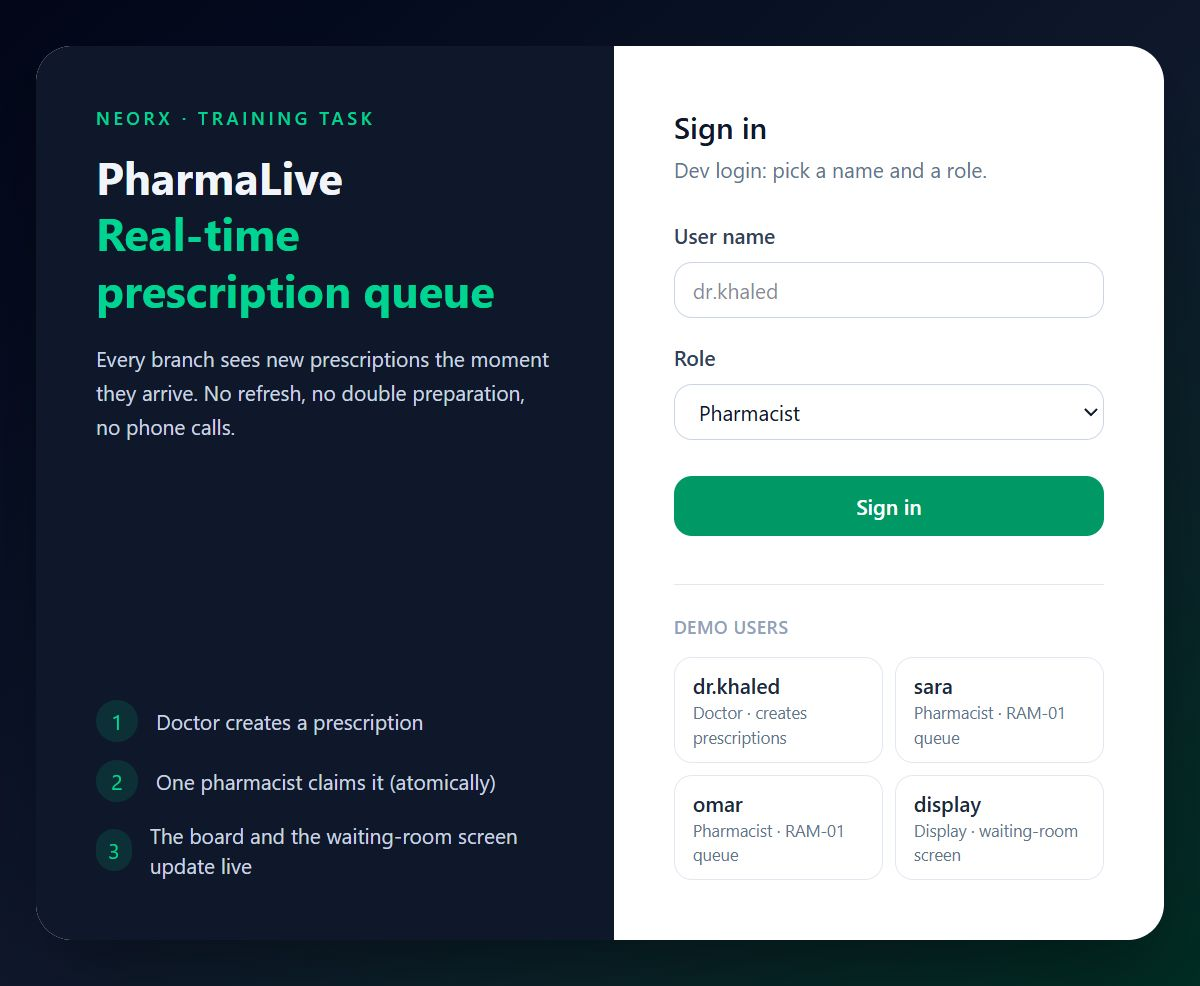
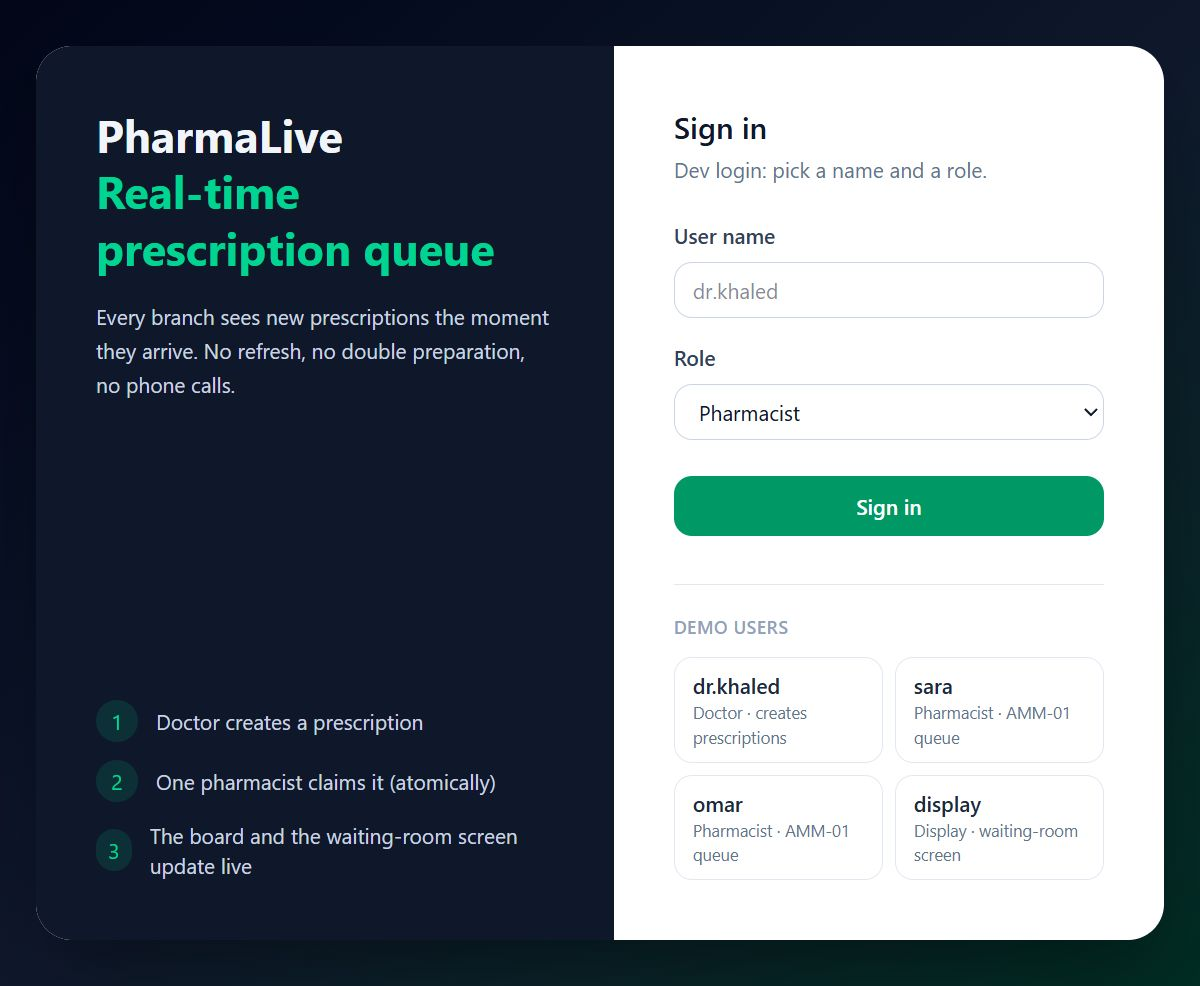
chore: switch to Jordanian city branches, remove Neorx branding, new login screenshot

Changed region(s): [[0.0617, 0.0913, 0.4625, 0.4564], [0.8325, 0.6998, 0.8942, 0.7302], [0.6475, 0.8215, 0.7092, 0.8519]]

diff --git a/client/src/app/pages/login/login.html b/client/src/app/pages/login/login.html
@@ -7,10 +7,7 @@
     <!-- Brand panel -->
     <aside class="hidden flex-col justify-between gap-10 bg-slate-900 p-10 text-slate-100 md:flex">
       <div>
-        <p class="text-xs font-semibold uppercase tracking-[0.2em] text-emerald-400">
-          Neorx · Training task
-        </p>
-        <h1 class="mt-3 text-3xl font-bold leading-tight">
+        <h1 class="text-3xl font-bold leading-tight">
           PharmaLive
           <span class="block text-emerald-400">Real-time prescription queue</span>
         </h1>

diff --git a/client/src/app/pages/login/login.ts b/client/src/app/pages/login/login.ts
@@ -28,8 +28,8 @@ export class Login {
 
   protected readonly demoUsers: DemoUser[] = [
     { userName: 'dr.khaled', role: 'Doctor', hint: 'creates prescriptions' },
-    { userName: 'sara', role: 'Pharmacist', hint: 'RAM-01 queue' },
-    { userName: 'omar', role: 'Pharmacist', hint: 'RAM-01 queue' },
+    { userName: 'sara', role: 'Pharmacist', hint: 'AMM-01 queue' },
+    { userName: 'omar', role: 'Pharmacist', hint: 'AMM-01 queue' },
     { userName: 'display', role: 'Display', hint: 'waiting-room screen' },
   ];
 

diff --git a/client/src/app/pages/pharmacist/pharmacist.ts b/client/src/app/pages/pharmacist/pharmacist.ts
@@ -38,7 +38,7 @@ export class PharmacistBoard {
   protected readonly branches = toSignal(this.http.branches(), {
     initialValue: [] as Branch[],
   });
-  protected readonly branchId = signal('RAM-01');
+  protected readonly branchId = signal('AMM-01');
   protected readonly branchName = computed(
     () => this.branches().find((branch) => branch.id === this.branchId())?.name ?? this.branchId(),
   );

diff --git a/client/src/app/pages/doctor/doctor.ts b/client/src/app/pages/doctor/doctor.ts
@@ -35,7 +35,7 @@ export class Doctor {
 
   protected readonly form = this.fb.nonNullable.group({
     number: ['', [Validators.required]],
-    branchId: ['RAM-01', [Validators.required]],
+    branchId: ['AMM-01', [Validators.required]],
     patientInitials: ['', [Validators.required]],
     items: this.fb.nonNullable.array([this.fb.nonNullable.control('', [Validators.required])]),
   });

diff --git a/server/PharmaLive.Api.Tests/PharmacyHubTests.cs b/server/PharmaLive.Api.Tests/PharmacyHubTests.cs
@@ -39,35 +39,35 @@ public sealed class PharmacyHubTests
 
         var doctorToken = await TestApi.LoginAsync(http, "dr.khaled", "Doctor");
 
-        await using var ramallah = await TestApi.ConnectAsync(factory, await TestApi.LoginAsync(http, "sara", "Pharmacist"));
-        await using var nablus = await TestApi.ConnectAsync(factory, await TestApi.LoginAsync(http, "omar", "Pharmacist"));
+        await using var amman = await TestApi.ConnectAsync(factory, await TestApi.LoginAsync(http, "sara", "Pharmacist"));
+        await using var irbid = await TestApi.ConnectAsync(factory, await TestApi.LoginAsync(http, "omar", "Pharmacist"));
 
-        var ramallahReceived = new TaskCompletionSource<PrescriptionDto>(TaskCreationOptions.RunContinuationsAsynchronously);
-        var nablusReceived = new TaskCompletionSource<PrescriptionDto>(TaskCreationOptions.RunContinuationsAsynchronously);
+        var ammanReceived = new TaskCompletionSource<PrescriptionDto>(TaskCreationOptions.RunContinuationsAsynchronously);
+        var irbidReceived = new TaskCompletionSource<PrescriptionDto>(TaskCreationOptions.RunContinuationsAsynchronously);
 
-        ramallah.On<PrescriptionDto>("PrescriptionCreated", dto =>
+        amman.On<PrescriptionDto>("PrescriptionCreated", dto =>
         {
-            ramallahReceived.TrySetResult(dto);
+            ammanReceived.TrySetResult(dto);
             return Task.CompletedTask;
         });
-        nablus.On<PrescriptionDto>("PrescriptionCreated", dto =>
+        irbid.On<PrescriptionDto>("PrescriptionCreated", dto =>
         {
-            nablusReceived.TrySetResult(dto);
+            irbidReceived.TrySetResult(dto);
             return Task.CompletedTask;
         });
 
-        await ramallah.InvokeAsync("JoinBranch", "RAM-01");
-        await nablus.InvokeAsync("JoinBranch", "NAB-01");
+        await amman.InvokeAsync("JoinBranch", "AMM-01");
+        await irbid.InvokeAsync("JoinBranch", "IRB-01");
 
-        var created = await TestApi.CreatePrescriptionAsync(http, doctorToken, "RX-9002", "RAM-01");
+        var created = await TestApi.CreatePrescriptionAsync(http, doctorToken, "RX-9002", "AMM-01");
 
-        var received = await ramallahReceived.Task.WaitAsync(TimeSpan.FromSeconds(10));
+        var received = await ammanReceived.Task.WaitAsync(TimeSpan.FromSeconds(10));
         Assert.Equal(created.Id, received.Id);
-        Assert.Equal("RAM-01", received.BranchId);
+        Assert.Equal("AMM-01", received.BranchId);
 
-        // Give Nablus a moment: it must never see a Ramallah prescription.
+        // Give Irbid a moment: it must never see an Amman prescription.
         await Task.Delay(500);
-        Assert.False(nablusReceived.Task.IsCompleted);
+        Assert.False(irbidReceived.Task.IsCompleted);
     }
 
     [Fact]
@@ -99,7 +99,7 @@ public sealed class PharmacyHubTests
             sara.InvokeAsync("JoinBranch", "XYZ-99"));
 
         Assert.Contains("Branch 'XYZ-99' does not exist.", error.Message);
-        Assert.Contains("RAM-01", error.Message);
+        Assert.Contains("AMM-01", error.Message);
     }
 
     private static async Task<ClaimAttempt> TryClaimAsync(HubConnection connection, string prescriptionId)

diff --git a/server/PharmaLive.Api/Program.cs b/server/PharmaLive.Api/Program.cs
@@ -87,11 +87,11 @@ app.UseCors("client");
 app.UseAuthentication();
 app.UseAuthorization();
 
-app.MapGet("/", () => Results.Ok(new
+app.MapGet("/", (BranchCatalog branches) => Results.Ok(new
 {
     service = "PharmaLive.Api",
     hub = "/hubs/pharmacy",
-    branches = new[] { "RAM-01", "NAB-01", "HEB-01" },
+    branches = branches.All.Select(branch => branch.Id),
 }));
 
 app.MapAuthEndpoints();

diff --git a/server/PharmaLive.Api/Services/BranchCatalog.cs b/server/PharmaLive.Api/Services/BranchCatalog.cs
@@ -7,9 +7,9 @@ public sealed class BranchCatalog
 {
     private static readonly BranchDto[] Branches =
     [
-        new("RAM-01", "Ramallah"),
-        new("NAB-01", "Nablus"),
-        new("HEB-01", "Hebron"),
+        new("AMM-01", "Amman"),
+        new("IRB-01", "Irbid"),
+        new("ZAR-01", "Zarqa"),
     ];
 
     private readonly Dictionary<string, BranchDto> _byId =

diff --git a/server/PharmaLive.Api.Tests/PharmaLiveFactory.cs b/server/PharmaLive.Api.Tests/PharmaLiveFactory.cs
@@ -30,7 +30,7 @@ internal static class TestApi
         HttpClient http,
         string accessToken,
         string number,
-        string branchId = "RAM-01")
+        string branchId = "AMM-01")
     {
         using var request = new HttpRequestMessage(HttpMethod.Post, "/api/prescriptions")
         {

diff --git a/README.md b/README.md
@@ -61,7 +61,8 @@ changes.
 | `omar` | Pharmacist | `/pharmacist` |
 | `display` | Display | `/display` |
 
-Branches: `RAM-01` Ramallah, `NAB-01` Nablus, `HEB-01` Hebron.
+Branches: `AMM-01` Amman, `IRB-01` Irbid, `ZAR-01` Zarqa. The board and the doctor form
+default to `AMM-01`.
 
 **Tests**
 
@@ -140,7 +141,7 @@ uses `WebApplicationFactory<Program>` and the real **.NET SignalR client**:
 - asserts exactly one success, one `HubException`, and that the loser's message contains the
   prescription number, "already claimed by" and the winner's name.
 
-The suite also proves branch isolation (a NAB-01 subscriber never receives a RAM-01 event), the
+The suite also proves branch isolation (an IRB-01 subscriber never receives an AMM-01 event), the
 readable invalid-transition error, and the unknown-branch error — 4 tests, all green.
 
 ---
@@ -170,7 +171,7 @@ browser history, `Referer` headers, crash dumps, and screenshots. Mitigations us
 ### 2. Why rejoin groups after a reconnect? When does stateful reconnect help?
 
 SignalR groups are keyed by **connection id** on the server:
-`Groups.AddToGroupAsync(Context.ConnectionId, "branch:RAM-01")`. A reconnect that produces a new
+`Groups.AddToGroupAsync(Context.ConnectionId, "branch:AMM-01")`. A reconnect that produces a new
 connection id creates a connection with no groups, so branch broadcasts stop arriving. The client
 therefore keeps the set of joined branches and, on `reconnected$`, invokes `JoinBranch` again
 (`PharmacyHubService.rejoinAll`). It also refetches the queue over HTTP, because events emitted while
@@ -257,25 +258,6 @@ explicit synchronization.
     origins (and `AllowCredentials` stays required for SignalR).
 11. **Observability** — add the instance id to logs/metrics so "which node handled it?" is answerable;
     the current hub filter logs user and duration but not the instance.
-
----
-
-## Five-minute demo script
-
-1. Window 1: sign in as **dr.khaled** (Doctor). Windows 2 and 3: **sara** and **omar** (Pharmacist) —
-   both default to `RAM-01`. The board shows presence (`sara`, `omar`) and live stats.
-2. In window 1, create `RX-1024` for `RAM-01`. It appears in the **New** column of both boards
-   immediately; the doctor's "Live status" list shows it too.
-3. Click **Claim** in windows 2 and 3 at almost the same time. One card becomes "Claimed by you"; the
-   other shows *"Prescription RX-1024 is already claimed by sara."* right on the card.
-4. The winner moves it **Preparing → Ready**. The doctor gets a toast *"RX-1024 is ready — A.K."* and
-   the display screen (`/display/RAM-01`) shows the number in large type.
-5. (Optional) With a stale card, ask for an invalid move — the server answers
-   *"Cannot move RX-1024 from Ready to Preparing."* next to the card.
-6. Stop the API for ~10 seconds and start it again: badges go **Reconnecting → Connected**, presence
-   and stats return, and a new prescription still appears (the group was rejoined and the board
-   resynced).
-7. A pharmacist on `NAB-01` never sees `RAM-01` prescriptions. Switch the branch selector to show it.
 
 ---
 
